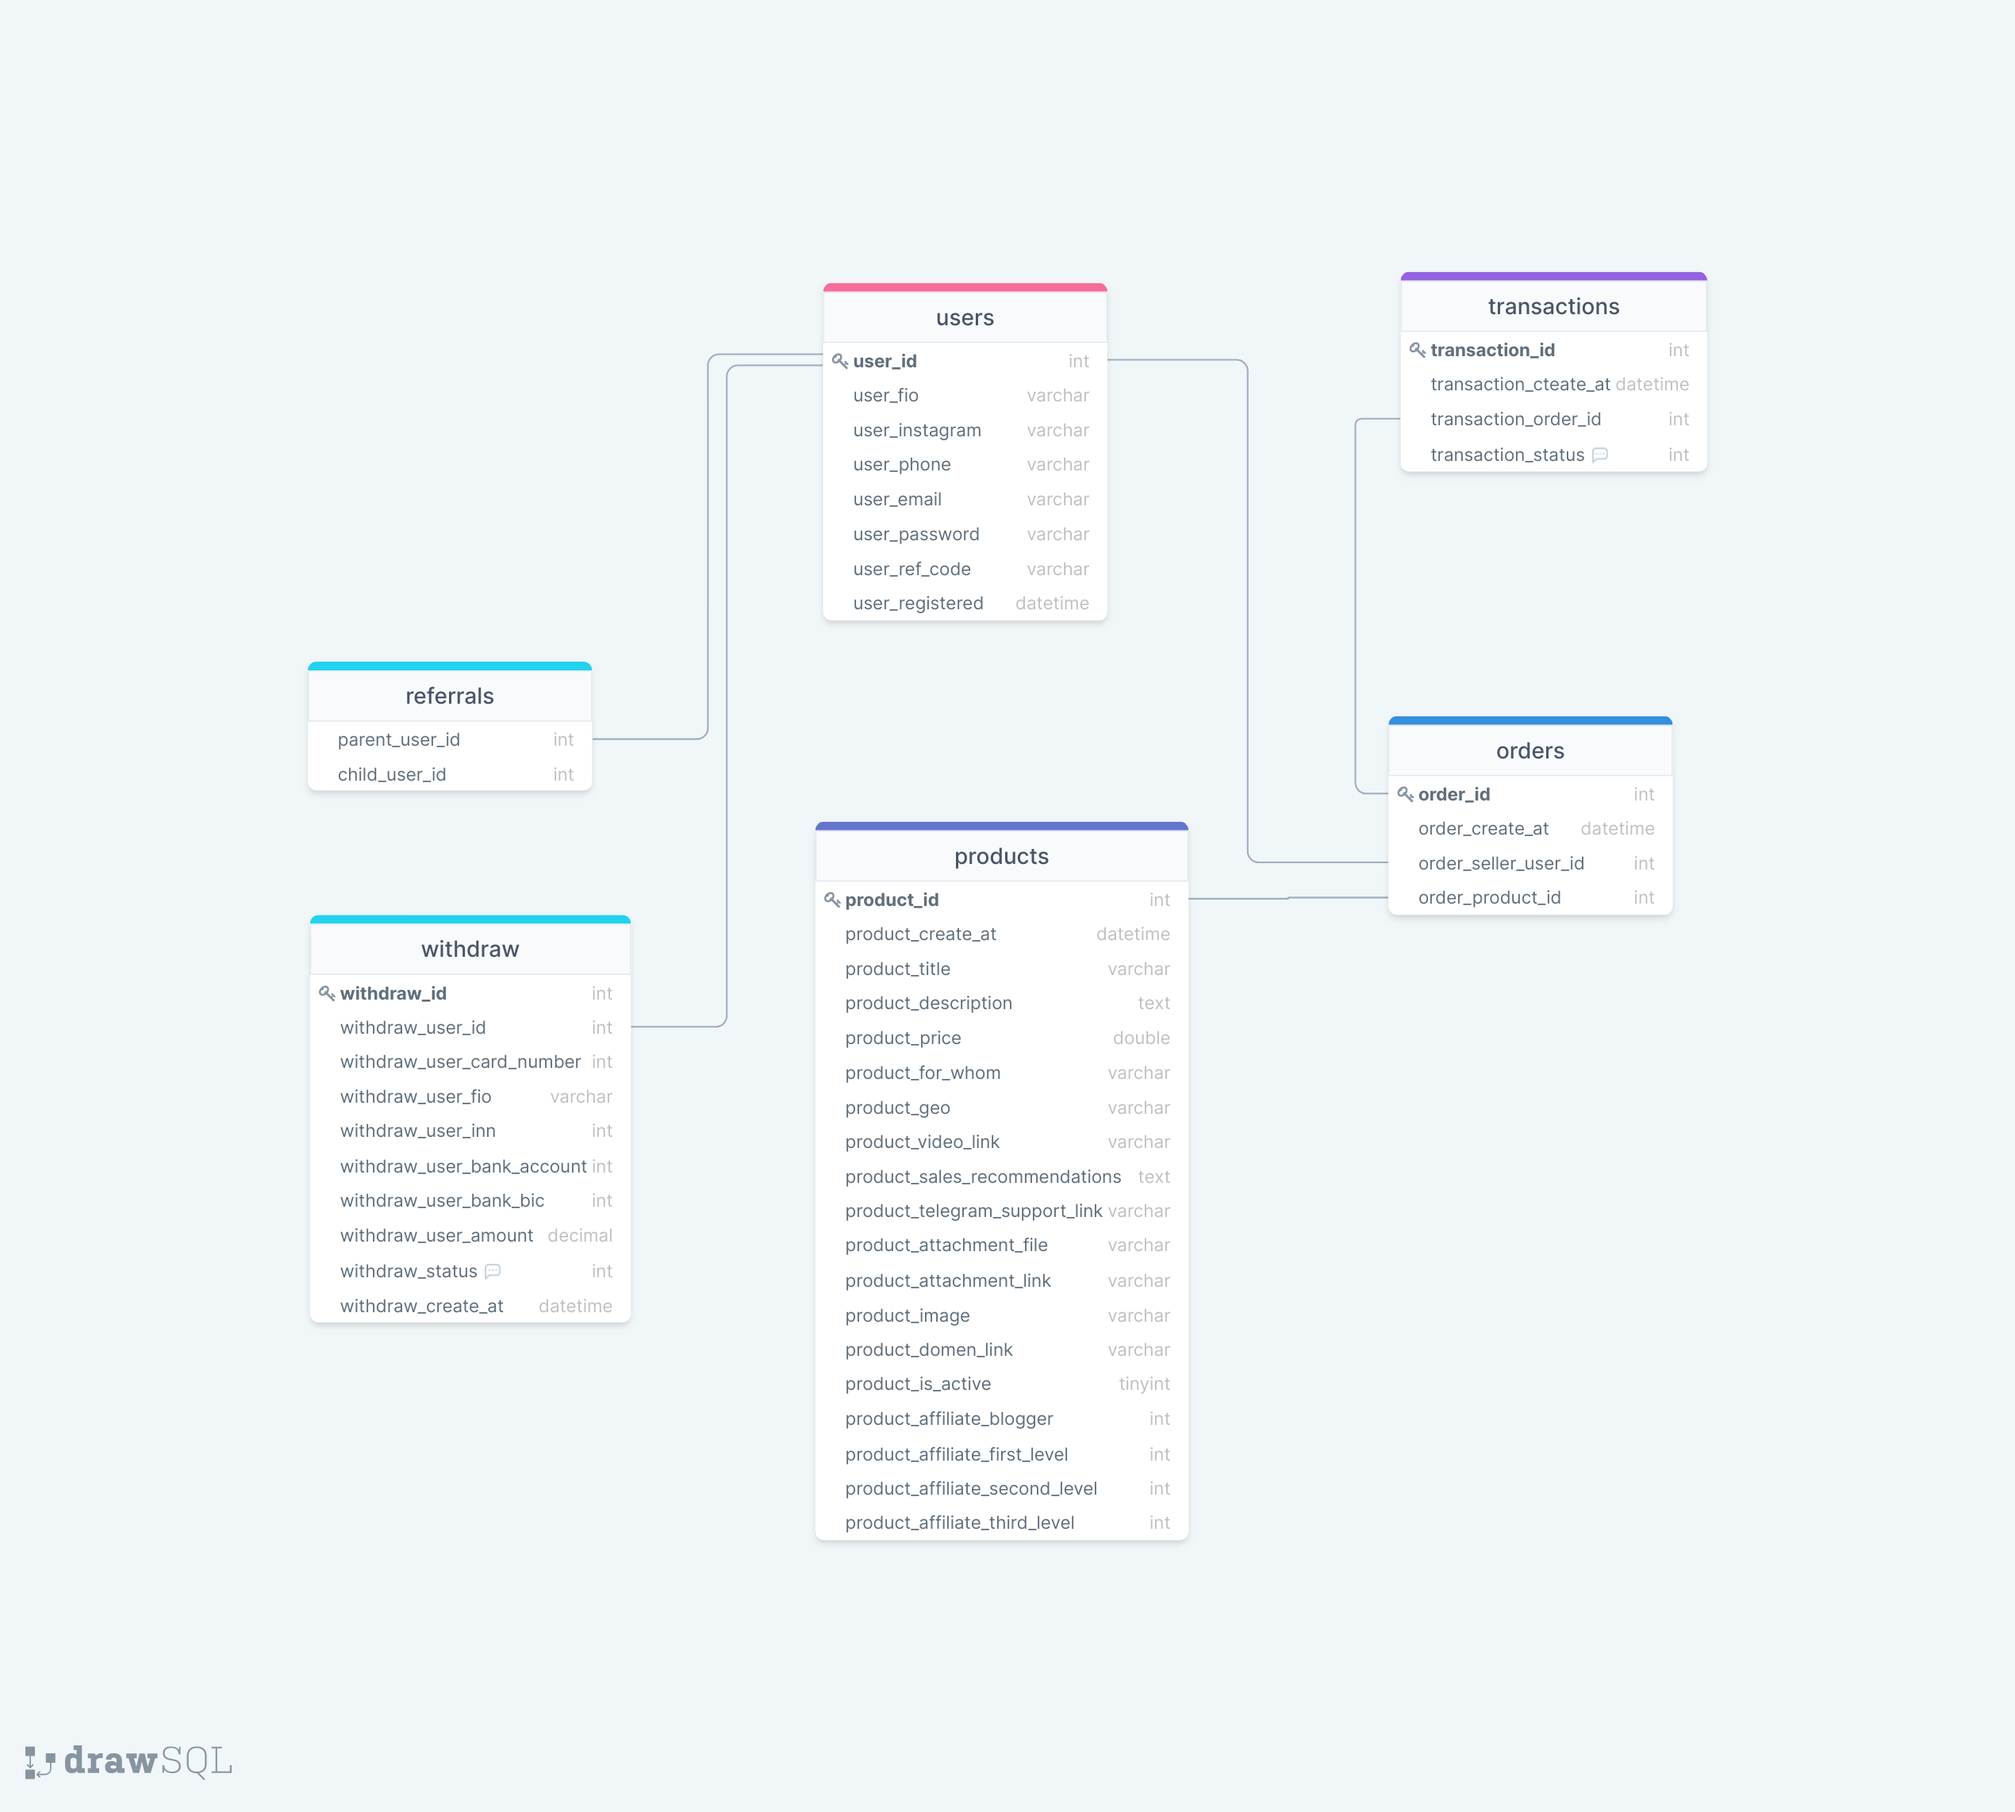
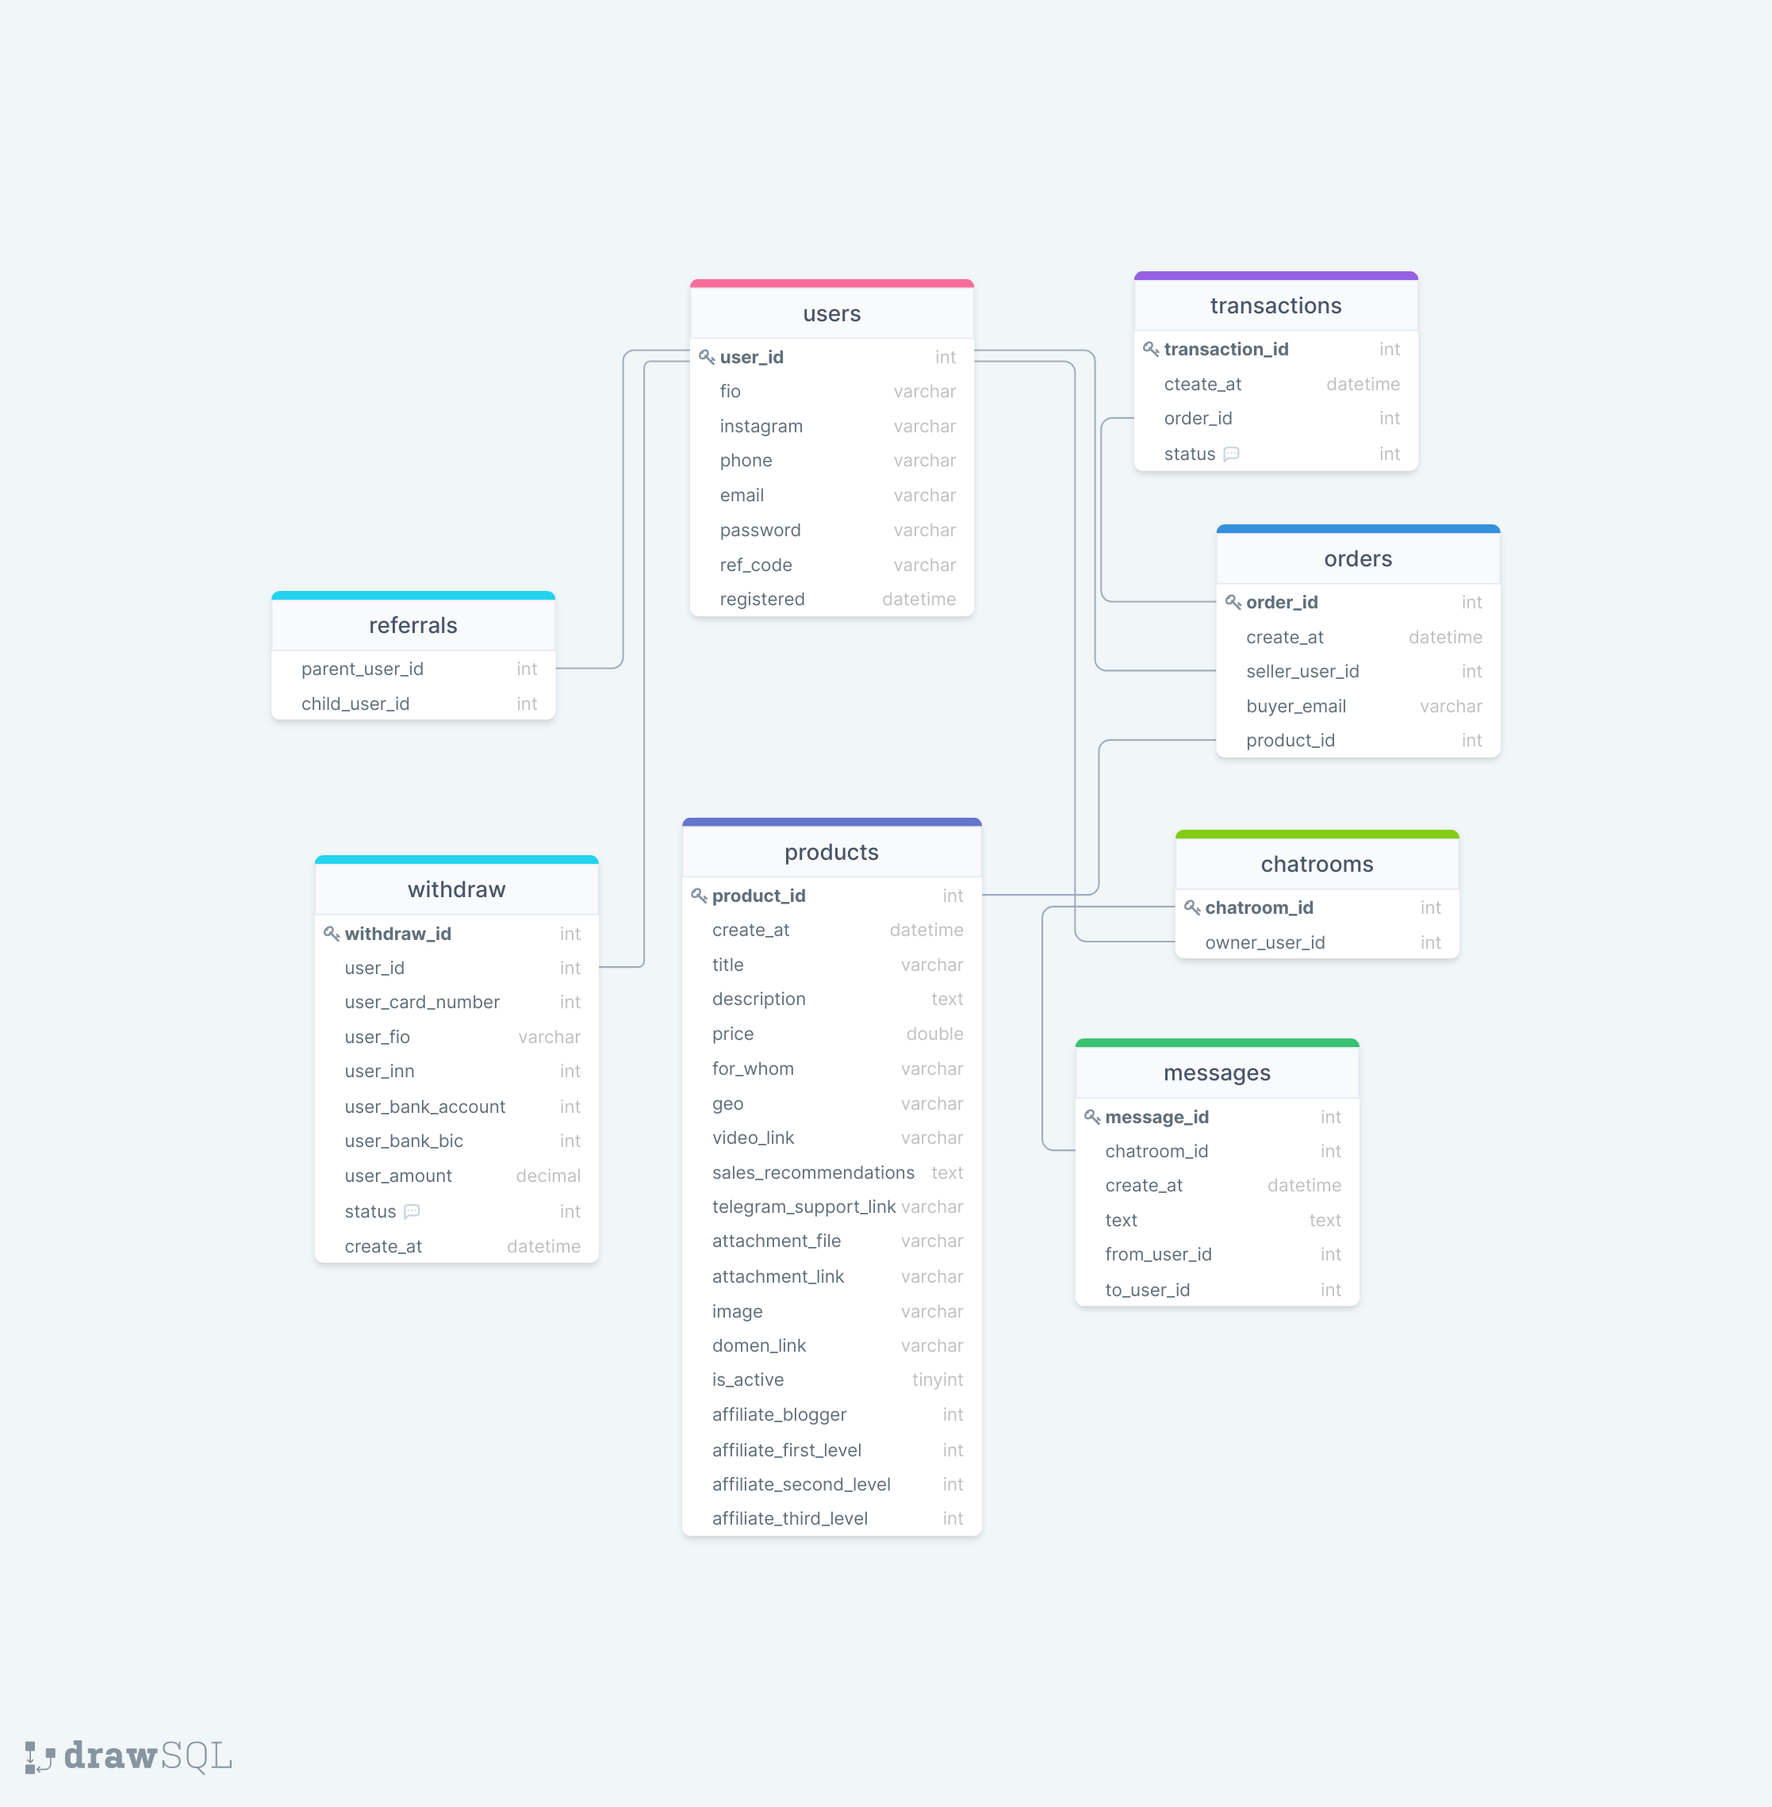
add all questions

diff --git a/backend/index.php b/backend/index.php
@@ -1,0 +1,13 @@
+<!DOCTYPE html>
+<html lang="en">
+<head>
+    <meta charset="UTF-8">
+    <meta http-equiv="X-UA-Compatible" content="IE=edge">
+    <meta name="viewport" content="width=device-width, initial-scale=1.0">
+    <title>Document</title>
+</head>
+<body>  
+    <h1>NMNH START</h1>
+    <?php phpinfo(); ?>
+</body>
+</html>

diff --git a/docs/basic.md b/docs/basic.md
@@ -1,6 +1,54 @@
 # Admin panel
+
+## Вывод денег
+
+### 1. Деньги в банке
+
+```
+- Текущий баланс по всем успешным транзакциям и деньгам готовым к выводу блогерам/площадке?
+```
+
+### 2. Всего выведено
+
+```
+- Баланс по всем успешным транзакциям ПОСЛЕ вывода денег блогерам/площадке?
+```
+
+### 3. Общий доход
+
+```
+- Баланс по всем успешным транзакциям ДО вывода денег блогерам/площадке?
+```
+
+### 4. Создать вывод
+
+```
+- Нет дизайна
+- Какая механика по клику на кнопку?
+```
+
+### 5. Что это за страница?
+
+![](./withdraw_1.png)
+
+### 6. Кнопка - Обработать
+
+```
+- Какая механика по клику на кнопку?
+```
+![](./withdraw_2.png)
+```
+Нужно уточнение статусов заявки: В процессе, Ошибка.
+```
+```
+- Поиск работает по: ФИО, инсте?
+```
+---
+
 ## Продукты
+
 ### 1. Редактирование продукта
+
 ```
 1. Партнерская программа
 - Какое распределение % по умолчанию?
@@ -8,7 +56,9 @@
 2. Гео
 - Для чего нужно?
 ```
+
 ### 2. Все продукты
+
 ```
 - Что обозначают (шт) в таблице? Это количество продаж товара?
 - Последний столбец это общая сумма продаж?
@@ -16,9 +66,11 @@
 ---
 
 ## Пользователи
+
 ### 1. Все пользователи
+
 ```
-- Столбец На счету: актуальный балланс пользователя?
+- Столбец На счету: актуальный баланс пользователя?
 - Всего заработано: итого за весь период с момента регистрации?
 - От партнеров: вся сумма от своей сети партнеров за все время?
 - Как считается эта сумма от партнерской сети?
@@ -31,11 +83,7 @@
 3. 2 level - 2%
 4. 3 level - 1%
 
-Прошли 4 сделки в рамках реферальной цепочки, 
-- одна продажа блогера,
-- одна продажа 1 level,
-- одна продажа 2 level,
-- одна продажа 3 level,
+Прошла успешная продажа. 
 
 Блогер получил: 
 - от своей продажи 60 рублей,
@@ -44,25 +92,55 @@
 - от продажи 3 level 1 рубль
 
 Итого: 68 рублей, включая партнерскую сеть 8 рублей.
-
 ```
 В таблице выводятся следующие данные:
 | Пользователь      | Всего заработано | От партнеров     |
 | :---        |    :----:   |          ---: |
 | Татьяна Иванова      | 68       | 8   |
 
-### 2. Пользователь
 ```
-- Что значит статус вывода? 
+- Поиск работает по: ФИО, инсте, e-mail?
+```
+
+### 2. Пользователь
+
+```
+- Что значит статус вывода денег? 
 - Сделано ссылкой, какое событие происходит при клике?
 - Может пользователь создать 2 запроса на вывод сразу или только один запрос и после проведения другой?
 - Приглашенные пользователи, где эта страница?
 ```
+
+```
+- Нет дизайна
+- Какая механика по клику на кнопку? 
+```
+![](./withdraw_3.png "кнопка посмотреть")
+
+---
+
+## Продажи
+
+```
+- Поиск работает по: Номеру платежа, Продавецу, Покупателю?
+```
+---
+
+## Сообщения
+
+![](./message.png "Сообщения")
+```
+- Не совсем понимаю для чего поле Имя пользователя. От службы поддержки имя одно вроде - Служба поддержки.. Так? 🙂
+- Для чего нужен попап окно, поле для сообщения то уже есть. Прямо в этом поле ведб сообщение писать нужно и отправлять по иконке слева, верно?
+```
+<p style="text-align:center; color:red" > ⚠ Бюджет раздела - СООБЩЕНИЯ пока не считал</p>
 ---
 
 # DB Structure
+
 ![DB Structure](./drawSQL.png "DB Structure")
 ___
 
 # Referral Program
+
 ![Referral Program](./NoMoneyNoHoney.jpg "Referral Program")
